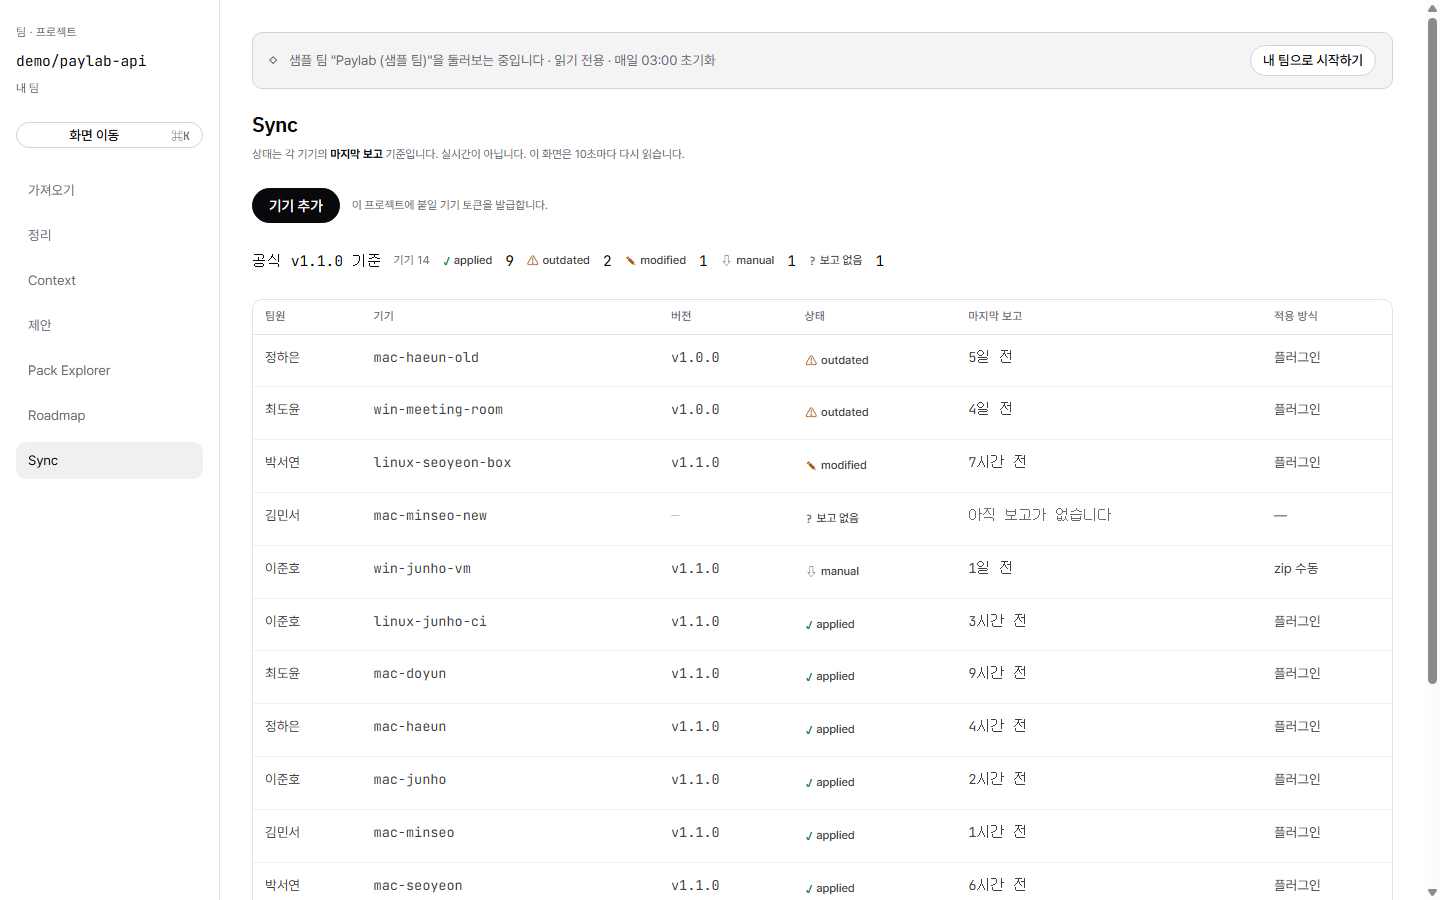
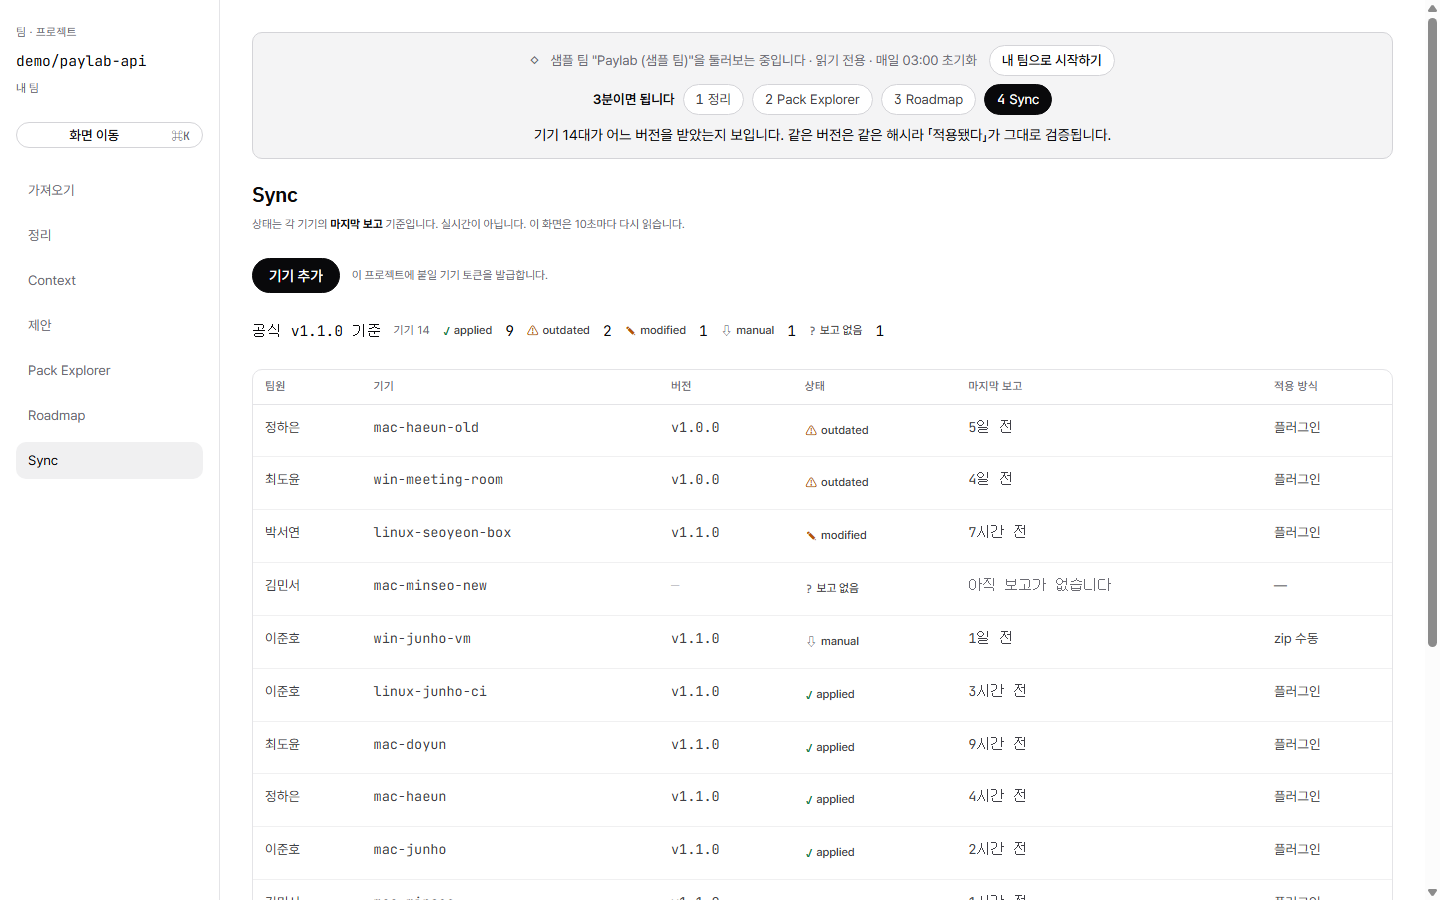
feat(web): 심사위원 3분 코스 — 게스트 배너가 네 걸음을 안내하고 /demo 는 첫 걸음(정리)으로 · 샘플 제목을 쉬운 말로
사용자: 「데모 예시들이 하나도 안 와닿고 심사위원 입장에서 3분 만에 이해 못 할 것 같다」 · 「샘플 데모 텍스트도 이해하기 쉽게」.
게스트는 Context 표 30줄에 떨어졌고 무엇을 봐야 하는지 아무 화면도 말하지 않았다.

- lib/web/tour.ts: 코스의 정본 — 정리 → Pack Explorer → Roadmap → Sync, 걸음마다 「볼 것」 한 문장
- demo-banner: 둘째 줄 걸음 넷(지금 걸음은 잉크) · 셋째 줄 「볼 것」 · globals .tour*
- DEMO_ENTRY_PATH: context → review (AI 가 찾은 충돌 3건이 첫 화면)
- 랜딩 「3분이면 됩니다」 절: 캡처 넉 장 = 코스의 네 화면(e2e/plan.ts PUBLISHED) · 캡처 밑에 「볼 것」
- Before/After 를 평어로(결제사(PSP) · 「문서에는…」 「코드에는…」) · README·SUBMISSION 동기 · 제출서에 「3분에 보는 길」
- seed: 아키텍처 제목 5 · 목표 제목 2 · 열린 질문 제목 4 를 비유 대신 하는 일로 (quote·마일스톤 제목은 원문이라 그대로)
- test/web-demo-tour.test.ts: 걸음 ⊂ 화면 표 · 숫자 = 씨앗 · /demo = 첫 걸음 · 캡처 = 걸음
- DESIGN_BRIEF §4 배너 절 갱신 · 관통 캡처 4장 갱신

diff --git a/apps/web/src/lib/demo/seed.ts b/apps/web/src/lib/demo/seed.ts
@@ -371,22 +371,24 @@ export function withRepo(entry: PaylabDraft, code: FixtureCode, quote: string): 
  *    ⚠ 순서를 컴파일러에서 고치려 하지 마라 — 정렬은 P4 의 심장이고 지금 맞다
  *      (`compiler/src/sort.ts`). 순서를 말하는 자리는 `priority` 하나다.
  */
+//  2026-09-10 사용자: 「샘플 데모 텍스트도 이해하기 쉽게」 — 제목은 비유(「밖으로 나가는 문」) 대신 하는 일 그대로.
+//  ⚠ 제목만 바꿨다. `quote` 는 문서 원문이라 그대로다 (관통이 원문에 있는지 센다).
 export const ARCHITECTURE = [
   ['item_arch_payment', 'payment', '승인·매입을 맡는다. PSP 를 직접 부르지 않고 psp 를 거친다',
     '- `payment` 는 승인·매입을 맡는다. PSP 를 직접 부르지 않고 `psp` 를 거친다.',
-    '결제가 들어오는 입구'],
+    '결제 요청 처리'],
   ['item_arch_psp', 'psp', '바깥으로 나가는 유일한 자리다. 재시도·타임아웃이 여기 산다',
     '- `psp` 만이 바깥으로 나간다. 재시도·타임아웃이 사는 자리다.',
-    '밖으로 나가는 문'],
+    '결제사 호출'],
   ['item_arch_webhook', 'webhook', 'PSP 콜백을 받아 상태를 맞춘다. 서명 검증이 먼저다',
     '- `webhook` 은 PSP 콜백을 받아 상태를 맞춘다. 서명 검증이 먼저다.',
-    '밖에서 돌아오는 문'],
+    '결제사 알림 수신'],
   ['item_arch_refund', 'refund', '환불을 맡는다. 원장에 반대 부호로 한 줄을 더한다',
     '- `refund` 는 환불을 맡는다. 원장에 반대 부호로 한 줄을 더한다.',
-    '돈을 되돌리는 길'],
+    '환불 처리'],
   ['item_arch_ledger', 'ledger', 'append only 다. 여기서 계산이 틀리면 정산이 틀린다',
     '- `ledger` 는 append only. 여기서 계산이 틀리면 정산이 틀린다.',
-    '돈이 쌓이는 장부'],
+    '원장 — 돈의 기록'],
 ] as const satisfies readonly (readonly [
   id: string, component: string, responsibility: string, quote: string, title: string,
 ])[]
@@ -423,7 +425,7 @@ const ARCHITECTURE_TOP_PRIORITY = 70
  *    (`GOAL_TOP_PRIORITY - i`). 같은 값이면 컴파일러가 제목 코드포인트 순으로 세운다.
  */
 export const GOALS = [
-  ['item_goal_success_rate', '장애 구간에도 승인이 선다', 'G2 와 서로 당긴다 — 재시도를 늘리면 승인률은 오르지만 환불이 늦어지고, 둘이 부딪히면 G2 가 우선이다.',
+  ['item_goal_success_rate', '장애 중에도 결제 승인이 된다', 'G2 와 서로 당긴다 — 재시도를 늘리면 승인률은 오르지만 환불이 늦어지고, 둘이 부딪히면 G2 가 우선이다.',
     '| G1 | 결제 승인 성공률 99.5% | PSP 장애 구간을 포함한 주간 성공률 | 2026-12-31 |',
     '결제 승인 성공률 99.5%', 'PSP 장애 구간을 포함한 주간 성공률', '2026-12-31'],
   ['item_goal_refund_sla', '환불이 하루 안에 끝난다', '접수에서 종결까지의 시각 차이 p95 로 잰다.',
@@ -434,7 +436,7 @@ export const GOALS = [
   //     이미 나르고, G2 의 body 는 식(`refund.closed_at - …`)을 사람 말로 푼 것이다.
   //     ⚠ **여기를 지어내서 채우지 마라.** 지표를 말만 바꿔 되풀이하는 줄이 되고, 그것이
   //       169·170 이 지운 바로 그 모양이다. roadmap 셋이 이미 빈 `body` 다.
-  ['item_goal_settlement_zero', '정산이 원장과 맞는다', '',
+  ['item_goal_settlement_zero', '정산 금액이 장부와 맞는다', '',
     '| G3 | 정산 오차 0원 | 일 배치 후 원장 대사 차액 | 2026-12-31 |',
     '정산 오차 0원', '일 배치 후 원장 대사 차액', '2026-12-31'],
 ] as const satisfies readonly (readonly [
@@ -524,16 +526,16 @@ const MILESTONE_TOP_PRIORITY = 70
  * ★ 질문을 하나 더하는 절차: **이 표에 한 줄.** `quote` 는 §5 의 불릿 첫 문장 그대로.
  */
 export const OPEN_QUESTIONS = [
-  ['item_oq_exhausted_payment', '재시도를 다 쓴 결제의 처리',
+  ['item_oq_exhausted_payment', '재시도를 다 쓴 결제는 어떻게 하나',
     '재시도를 다 쓰고도 실패한 결제를 **자동 취소할지, 수동 확인 큐에 넣을지** 못 정했다.',
     '재시도를 다 쓰고도 실패한 결제를 자동 취소하나, 수동 확인 큐에 넣나?'],
-  ['item_oq_partial_refund_sla', '부분 환불의 SLA',
+  ['item_oq_partial_refund_sla', '부분 환불도 24시간 안에 끝내야 하나',
     '**부분 환불도 24시간 SLA 인지** 정하지 않았다.',
     '부분 환불도 24시간 SLA 인가?'],
-  ['item_oq_webhook_redelivery', '웹훅 재전송을 받아 주는 기간',
+  ['item_oq_webhook_redelivery', '결제사 알림 재전송을 며칠까지 받아 주나',
     '웹훅 **재전송을 며칠까지 받아 줄지** 정하지 않았다.',
     '웹훅 재전송을 며칠까지 받아 주나? (멱등 테이블 보관 기간과 같이 정한다)'],
-  ['item_oq_rounding_rule', '외화 정산의 반올림 규칙',
+  ['item_oq_rounding_rule', '외화 정산은 어떻게 반올림하나',
     '정산 화폐가 KRW 외로 늘어날 때 **반올림 규칙**을 정하지 않았다.',
     '정산 화폐가 KRW 외로 늘어날 때 반올림 규칙은 무엇인가?'],
 ] as const satisfies readonly (readonly [id: string, title: string, quote: string, question: string])[]

diff --git a/apps/web/test/web-demo-tour.test.ts b/apps/web/test/web-demo-tour.test.ts
@@ -1,0 +1,80 @@
+import { readFileSync } from 'node:fs'
+import { fileURLToPath } from 'node:url'
+import { join } from 'node:path'
+import { createElement } from 'react'
+import { renderToStaticMarkup } from 'react-dom/server'
+import { describe, expect, it } from 'vitest'
+
+import { PUBLISHED_SHOTS } from '../e2e/plan'
+import { Landing, TERMINAL_REPLAY } from '../src/components/landing'
+import { RECORDED_CONFLICTS } from '../src/lib/demo/seed'
+import { DEMO_ENTRY_PATH } from '../src/lib/demo/tenant'
+import { PROJECT_SCREENS } from '../src/lib/web/screens'
+import { DEMO_TOUR, tourIndexOf } from '../src/lib/web/tour'
+
+// =====================================================================
+//  심사위원 3분 코스의 게이트 (`lib/web/tour.ts` · 2026-09-10)
+//
+//  ★ 왜 시험인가 — 코스는 **숫자를 말한다**(충돌 3건 · 기기 14대 · 근거 n / 3). 씨앗이 바뀌면 코스가
+//    거짓말을 하는데 화면은 멀쩡히 뜬다. 근거 없는 숫자는 화면에 없다 (DESIGN_BRIEF §2-1) — 기계가 잰다.
+//  재는 것:
+//    ① 걸음의 `path` 는 전부 화면 표(`PROJECT_SCREENS`)의 화면이다 · 순서는 표의 차례와 같다
+//    ② 문장의 숫자가 씨앗과 같다 — 충돌 · 기기 · 완료 기준
+//    ③ `/demo` 는 첫 걸음으로 보낸다 · 랜딩의 캡처는 코스의 걸음과 같은 화면이다
+//    ④ 랜딩이 걸음의 「볼 것」을 캡처 밑에 그대로 적는다 · `tourIndexOf` 가 주소를 걸음으로 옮긴다
+// =====================================================================
+
+const webRoot = fileURLToPath(new URL('..', import.meta.url))
+const seed = JSON.parse(readFileSync(join(webRoot, '..', '..', 'fixtures', 'seed', 'demo.json'), 'utf8')) as { devices: unknown[] }
+
+describe('① 걸음은 화면 표의 화면이고 차례도 표를 따른다', () => {
+  it('path 가 전부 PROJECT_SCREENS 에 있다', () => {
+    const paths = PROJECT_SCREENS.map((s) => s.path)
+    for (const stop of DEMO_TOUR.stops) expect(paths, stop.path).toContain(stop.path)
+  })
+
+  it('걸음의 차례가 화면 표의 차례와 같다 (일의 차례 = 표의 차례)', () => {
+    const order = DEMO_TOUR.stops.map((s) => PROJECT_SCREENS.findIndex((p) => p.path === s.path))
+    expect([...order].sort((a, b) => a - b)).toEqual(order)
+  })
+})
+
+describe('② 문장의 숫자는 씨앗의 사실이다', () => {
+  const text = DEMO_TOUR.stops.map((s) => s.see).join('\n')
+
+  it(`충돌 ${RECORDED_CONFLICTS.length}건`, () => {
+    expect(text).toContain(`충돌 ${RECORDED_CONFLICTS.length}건`)
+  })
+
+  it(`기기 ${seed.devices.length}대`, () => {
+    expect(text).toContain(`기기 ${seed.devices.length}대`)
+  })
+
+  it(`근거 n / ${TERMINAL_REPLAY.milestone.done_when.length}`, () => {
+    expect(text).toContain(`근거 n / ${TERMINAL_REPLAY.milestone.done_when.length}`)
+  })
+})
+
+describe('③ 문과 캡처가 코스를 따른다', () => {
+  it('/demo 는 첫 걸음으로 보낸다', () => {
+    expect(DEMO_ENTRY_PATH.endsWith(`/${DEMO_TOUR.stops[0].path}`)).toBe(true)
+  })
+
+  it('랜딩에 싣는 캡처는 코스의 걸음과 같은 화면이다 (같은 차례)', () => {
+    expect(PUBLISHED_SHOTS.map((s) => s.path.split('/').pop())).toEqual(DEMO_TOUR.stops.map((s) => s.path))
+  })
+})
+
+describe('④ 랜딩과 주소', () => {
+  it('랜딩이 걸음의 「볼 것」을 캡처 밑에 그대로 적는다', () => {
+    const out = renderToStaticMarkup(createElement(Landing))
+    for (const stop of DEMO_TOUR.stops) expect(out).toContain(stop.see)
+    expect(out).toContain(DEMO_TOUR.title)
+  })
+
+  it('tourIndexOf 가 주소를 걸음으로 옮긴다 (코스 밖은 -1)', () => {
+    expect(tourIndexOf('/t/demo/p/paylab-api/review')).toBe(0)
+    expect(tourIndexOf('/t/demo/p/paylab-api/packs/1.1.0')).toBe(1)
+    expect(tourIndexOf('/t/demo/p/paylab-api/context')).toBe(-1)
+  })
+})

diff --git a/apps/web/src/components/landing.tsx b/apps/web/src/components/landing.tsx
@@ -3,6 +3,7 @@ import { ReplayFrames, ShotsManifest } from '@contextops/schema'
 import replayRecording from '../../../../fixtures/replay/sync.json'
 import shotsManifest from '../../public/shots/manifest.json'
 import { ART } from '../lib/web/art'
+import { DEMO_TOUR } from '../lib/web/tour'
 import { SITE } from '../lib/web/site'
 import styles from './landing.module.css'
 import { TerminalReplay } from './terminal-replay'
@@ -73,19 +74,20 @@ export const LANDING_HEAD = {
 export const BEFORE_AFTER = {
   //  2026-09-10 사용자: 「문구가 안 와닿는다」 — 카드 위에 한 줄로 **무엇을 보고 있는지**부터 말한다.
   caption: '같은 질문을 같은 팀 두 사람의 Claude Code 에 던졌습니다.',
-  prompt: 'PSP 호출이 실패하면 몇 번까지 재시도해?',
+  //  PSP = 결제사. 심사위원이 결제 개발자가 아니어도 읽히게 괄호로 푼다 (2026-09-10).
+  prompt: '결제사(PSP) 호출이 실패하면 몇 번까지 재시도해?',
   before: {
     title: '지금 — 사람마다 다른 답',
     answers: [
       {
         who: 'A',
         source: 'paylab-docs/goals.md §3.1',
-        text: '최대 5회까지 지수 백오프로 재시도합니다. 고정 간격은 금지라고 되어 있습니다.',
+        text: '문서에는 최대 5회, 지수 백오프로 재시도하라고 되어 있습니다. 고정 간격은 금지입니다.',
       },
       {
         who: 'B',
         source: 'paylab-api/src/payment/retry.ts:11',
-        text: 'MAX_RETRY = 3 이고 간격은 500ms 고정입니다.',
+        text: '코드에는 MAX_RETRY = 3, 간격은 500ms 고정으로 되어 있습니다.',
       },
     ],
     foot: 'A 는 문서를, B 는 코드를 읽었습니다. 둘 다 틀리지 않았는데 팀은 둘로 갈립니다.',
@@ -110,9 +112,10 @@ export const BEFORE_AFTER = {
  *   여기 표에는 **절 제목과 설명**만 있다 — 파일 이름은 한 자도 없다.
  */
 export const PRODUCT_TOUR = {
-  title: '실제로 도는 화면입니다',
-  lead: '아래 세 장은 시안이 아니라 검증 시나리오가 실제 앱을 띄워 방금 찍은 캡처입니다. '
-    + '위의 [샘플 팀으로 둘러보기]를 누르면 같은 화면을 직접 만질 수 있습니다.',
+  //  2026-09-10 사용자: 「데모 예시가 안 와닿고 심사위원이 3분에 이해 못 할 것 같다」 — 이 절이 **3분 코스**가 됐다.
+  //  제목·설명은 코스의 정본(`lib/web/tour.ts`)에서 오고, 캡처 넉 장은 코스의 네 걸음과 같은 화면이다 (시험이 대조).
+  title: DEMO_TOUR.title,
+  lead: `${DEMO_TOUR.lead} 위의 [샘플 팀으로 둘러보기]를 누르면 같은 순서로 안내가 붙습니다.`,
   foot: '캡처는 검증 시나리오(tools/walkthrough.ps1)의 shots 단계가 매번 다시 찍습니다 — 낡은 그림이 남지 않습니다.',
 } as const
 
@@ -438,6 +441,12 @@ function ProductShots({ index }: { index: string }) {
             />
             <figcaption className={`col-tight ${styles.shotCap}`}>
               <span className="ink">{shot.alt}</span>
+              {/* 코스의 「볼 것」 — 이 캡처가 코스의 몇째 걸음이고 무엇을 봐야 하는지 (정본 `lib/web/tour.ts`). */}
+              {(() => {
+                const at = DEMO_TOUR.stops.findIndex((t) => shot.src.endsWith(`/${t.path}`))
+                const stop = DEMO_TOUR.stops[at]
+                return stop ? <span className={styles.shotSee}><span className="mono">{at + 1}</span> {stop.see}</span> : null
+              })()}
               {/* 근거는 숫자·판정 옆에 있다 — 이 그림이 「어느 화면」인지 (P7 의 정신) */}
               <span className="meta mono">{shot.src}</span>
             </figcaption>

diff --git a/apps/web/src/components/demo-banner.tsx b/apps/web/src/components/demo-banner.tsx
@@ -1,18 +1,24 @@
 'use client'
 
 import { useEffect, useState } from 'react'
+import { usePathname } from 'next/navigation'
 
-import { demoBannerText } from '../lib/demo/tenant'
+import { DEMO_TENANT, demoBannerText } from '../lib/demo/tenant'
+import { PROJECT_SCREENS, screenHref } from '../lib/web/screens'
 import { readSession } from '../lib/web/session'
+import { DEMO_TOUR, tourIndexOf } from '../lib/web/tour'
 
 // =====================================================================
 //  게스트 데모 배너 (DESIGN_BRIEF §4 「게스트 데모 배너」 — 모든 앱 화면 상단)
 //
 //    샘플 팀 "…"을 둘러보는 중입니다 · 읽기 전용 · 매일 03:00 초기화
+//    ① 정리 ② Pack Explorer ③ Roadmap ④ Sync   ← 3분 코스 (`lib/web/tour.ts`) · 지금 걸음의 「볼 것」 한 줄
 //
 //  ★ 왜 배너가 필요한가 — 게스트는 **버튼을 눌렀을 때 403 을 받는다.** 그 사실을
 //    미리 말하지 않으면 심사위원은 제품이 고장났다고 읽는다. 이 한 줄이 403 을
 //    「막힌 것」이 아니라 「원래 그런 것」으로 만든다.
+//  ★ 왜 코스가 배너에 있나 (2026-09-10) — 게스트는 표에 떨어져서 무엇을 봐야 할지 몰랐다. 코스의 정본은
+//    `lib/web/tour.ts` 하나이고, 라벨·주소는 화면 표(`PROJECT_SCREENS`)에서 온다 — 여기서 지어내지 않는다.
 //
 //  ⚠ **[AI 한 번 실행해보기] 버튼은 아직 없다.** DESIGN_BRIEF 는 그 버튼을 적지만
 //    부르는 문(`POST /demo/ai-once` · §7.4)이 0곳이다 (FINDINGS 117 과 같은 결).
@@ -26,13 +32,34 @@ export function DemoBanner() {
   //    뒤에 정한다 — 안 그러면 hydration 이 어긋나서 화면이 한 번 깜빡인다.
   const [guest, setGuest] = useState(false)
   useEffect(() => { setGuest(readSession()?.guest === true) }, [])
+  const pathname = usePathname()
 
   if (!guest) return null
+  const base = `/t/${DEMO_TENANT.teamSlug}/p/${DEMO_TENANT.projectSlug}`
+  const here = tourIndexOf(pathname)
+  const current = here >= 0 ? DEMO_TOUR.stops[here] : undefined
   return (
-    <div className="banner" role="status">
-      <span aria-hidden="true" className="chip-icon">◇</span>
-      <span className="grow">{demoBannerText()}</span>
-      <a className="btn btn-sm" href="/login">내 팀으로 시작하기</a>
+    <div className="banner col-tight" role="status">
+      <div className="row wrap">
+        <span aria-hidden="true" className="chip-icon">◇</span>
+        <span className="grow">{demoBannerText()}</span>
+        <a className="btn btn-sm" href="/login">내 팀으로 시작하기</a>
+      </div>
+      <ol className="tour" aria-label={DEMO_TOUR.title}>
+        <li className="tour-title">{DEMO_TOUR.title}</li>
+        {DEMO_TOUR.stops.map((stop, i) => {
+          const screen = PROJECT_SCREENS.find((s) => s.path === stop.path)
+          if (screen === undefined) return null
+          return (
+            <li key={stop.path}>
+              <a className="tour-step" href={screenHref(base, screen)} aria-current={i === here ? 'step' : undefined}>
+                <span className="mono">{i + 1}</span> {screen.label}
+              </a>
+            </li>
+          )
+        })}
+      </ol>
+      {current ? <p className="tour-see ink">{current.see}</p> : null}
     </div>
   )
 }

diff --git a/apps/web/src/lib/web/tour.ts b/apps/web/src/lib/web/tour.ts
@@ -1,0 +1,48 @@
+// =====================================================================
+//  심사위원 3분 코스 — 게스트가 **어느 화면에서 무엇을 봐야 하는지**의 정본 (2026-09-10)
+//
+//  ★ 왜 생겼나 — 사용자: 「데모 예시들이 하나도 안 와닿고, 심사위원 입장에서 3분 만에 이해 못 할 것 같다」.
+//    게스트는 [샘플 팀으로 둘러보기]를 누르면 결제 규칙 30줄짜리 표에 떨어졌고, 무엇을 봐야 하는지 아무도
+//    말해 주지 않았다. 이 표가 그 말을 한다 — 게스트 배너(`components/demo-banner.tsx`)가 네 걸음을 띄우고,
+//    랜딩의 「실제로 도는 화면」 절이 같은 네 걸음을 캡처 밑에 적는다. `/demo` 도 첫 걸음으로 보낸다(`DEMO_ENTRY_PATH`).
+//
+//  🔴 **걸음은 `path` 로만 화면을 가리킨다** — 라벨·주소는 `screens.ts` 의 `PROJECT_SCREENS` 가 정한다 (두 곳이 되면 갈린다).
+//  🔴 **숫자는 씨앗의 사실이다** — 충돌 3건(`RECORDED_CONFLICTS`) · 기기 14대(`fixtures/seed/demo.json`) · 근거 n / 3
+//     (PL-M1 의 `done_when`). `test/web-demo-tour.test.ts` 가 씨앗과 대조한다 — 씨앗이 바뀌면 여기가 먼저 빨개진다.
+//  ⚠ 걸음을 더하려면 여기 한 줄 + (랜딩에 캡처를 싣고 싶으면) `e2e/plan.ts` 의 `PUBLISHED` 한 줄.
+// =====================================================================
+
+export type TourStop = {
+  /** `PROJECT_SCREENS` 의 `path` */
+  readonly path: string
+  /** 그 화면에서 볼 것 — 한 문장. 배너와 랜딩 캡처 밑에 그대로 나간다. */
+  readonly see: string
+}
+
+export const DEMO_TOUR = {
+  title: '3분이면 됩니다',
+  lead: '샘플 팀 Paylab 은 결제 서비스를 만드는 가상의 팀입니다. 아래 네 화면을 차례로 보세요 — 전부 실제로 도는 화면입니다.',
+  stops: [
+    {
+      path: 'review',
+      see: 'AI 가 찾은 충돌 3건이 카드로 서 있습니다. 문서끼리, 문서와 코드가 다르게 말하는 자리를 질문으로 올렸고, 결정 버튼은 사람 몫입니다.',
+    },
+    {
+      path: 'packs',
+      see: '발행된 CLAUDE.md 를 열어 아무 줄이나 누르면, 그 줄이 어느 문서 몇 절·어느 코드 몇 줄에서 왔는지 보입니다.',
+    },
+    {
+      path: 'roadmap',
+      see: '마일스톤이 「근거 n / 3」으로 채워집니다. 개발자의 AI 가 보고한 파일 경로가 근거이고, 완료 확인은 사람이 합니다.',
+    },
+    {
+      path: 'sync',
+      see: '기기 14대가 어느 버전을 받았는지 보입니다. 같은 버전은 같은 해시라 「적용됐다」가 그대로 검증됩니다.',
+    },
+  ],
+} as const satisfies { title: string; lead: string; stops: readonly TourStop[] }
+
+/** 지금 보는 화면이 코스의 몇째 걸음인가 (0부터). 코스 밖 화면이면 -1. */
+export function tourIndexOf(pathname: string): number {
+  return DEMO_TOUR.stops.findIndex((s) => new RegExp(`/${s.path}(/|$)`).test(pathname))
+}

diff --git a/apps/web/src/app/globals.css b/apps/web/src/app/globals.css
@@ -407,6 +407,32 @@ code, pre, .mono { font-family: var(--font-mono); font-variant-numeric: tabular-
   font-size: var(--fs-table);
 }
 
+/* 3분 코스 — 게스트 배너의 둘째 줄 (`components/demo-banner.tsx` · 정본 `lib/web/tour.ts`).
+   걸음 넷이 알약으로 서고, 지금 걸음은 잉크로 채운다. 셋째 줄은 지금 걸음의 「볼 것」 한 문장. */
+.tour {
+  list-style: none;
+  margin: 0;
+  padding: 0;
+  display: flex;
+  flex-wrap: wrap;
+  align-items: center;
+  gap: var(--sp-2);
+}
+.tour-title { color: var(--ink); font-weight: 600; }
+.tour-step {
+  display: inline-flex;
+  align-items: center;
+  gap: var(--sp-1);
+  padding: var(--sp-1) var(--sp-3);
+  border: 1px solid var(--line-hi);
+  border-radius: var(--radius-pill);
+  background: var(--surface);
+  color: var(--ink-2);
+}
+.tour-step:hover { text-decoration: none; color: var(--ink); border-color: var(--ink-3); }
+.tour-step[aria-current='step'] { background: var(--accent); border-color: var(--accent); color: var(--on-accent); }
+.tour-see { font-size: var(--fs-body); line-height: 1.6; }
+
 /* 가운데 한 장짜리 화면 (로그인 · 팀/프로젝트 만들기) */
 .center {
   min-height: 100vh;

diff --git a/apps/web/e2e/plan.ts b/apps/web/e2e/plan.ts
@@ -44,8 +44,10 @@ export const DEMO_BASE = `/t/${DEMO_TENANT.teamSlug}/p/${DEMO_TENANT.projectSlug
  *   저장소에 들어가는 바이너리라 한 장이 늘면 매 관통마다 그만큼 diff 가 는다.
  */
 const PUBLISHED: Record<string, string> = {
-  context: '팀 Context 화면 — 항목마다 원문 근거가 옆에 붙어 있다',
+  //  🔴 3분 코스(`lib/web/tour.ts`)의 네 걸음과 같은 화면·같은 차례다 — `test/web-demo-tour.test.ts` 가 대조한다.
+  review: '정리 화면 — AI 가 찾은 충돌이 카드로 서 있고, 결정 버튼은 사람 몫이다',
   packs: 'Pack Explorer — 발행된 CLAUDE.md 와 그 줄의 출처',
+  roadmap: 'Roadmap — 마일스톤이 근거로 채워지고, 완료 확인은 사람이 한다',
   sync: 'Sync 화면 — 기기마다 어느 버전이 적용됐나',
 }
 

diff --git a/apps/web/src/lib/demo/tenant.ts b/apps/web/src/lib/demo/tenant.ts
@@ -68,9 +68,13 @@ export const DEMO_TENANT = {
   resetUtcOffsetHours: 9,
 } as const
 
-/** 게스트가 들어가서 처음 보는 화면. `/demo` 가 여기로 보낸다. */
+/**
+ * 게스트가 들어가서 처음 보는 화면. `/demo` 가 여기로 보낸다.
+ * 2026-09-10: Context(표 30줄)가 아니라 **3분 코스의 첫 걸음**(정리 — AI 가 찾은 충돌)이다. 정본은 `lib/web/tour.ts`.
+ */
 export const DEMO_ENTRY_PATH =
-  `/t/${DEMO_TENANT.teamSlug}/p/${DEMO_TENANT.projectSlug}/context`
+  //  ⚠ 글자로 적는다 — 이 파일은 import 가 없다(머리말). `test/web-demo-tour.test.ts` 가 `DEMO_TOUR.stops[0].path` 와 같은지 잰다.
+  `/t/${DEMO_TENANT.teamSlug}/p/${DEMO_TENANT.projectSlug}/review`
 
 /**
  * 배너 문구 (DESIGN_BRIEF §4 「게스트 데모 배너」).

diff --git a/apps/web/src/components/landing.module.css b/apps/web/src/components/landing.module.css
@@ -323,6 +323,7 @@
   border-radius: var(--radius);
 }
 .shotCap { padding: 0 var(--sp-2) var(--sp-1); }
+.shotSee { color: var(--ink-2); line-height: 1.6; }
 
 /* ── 신뢰 경계 표 — 머리는 표제체, 아래 굵은 잉크 줄 ── */
 .trust :global(.table) th {
